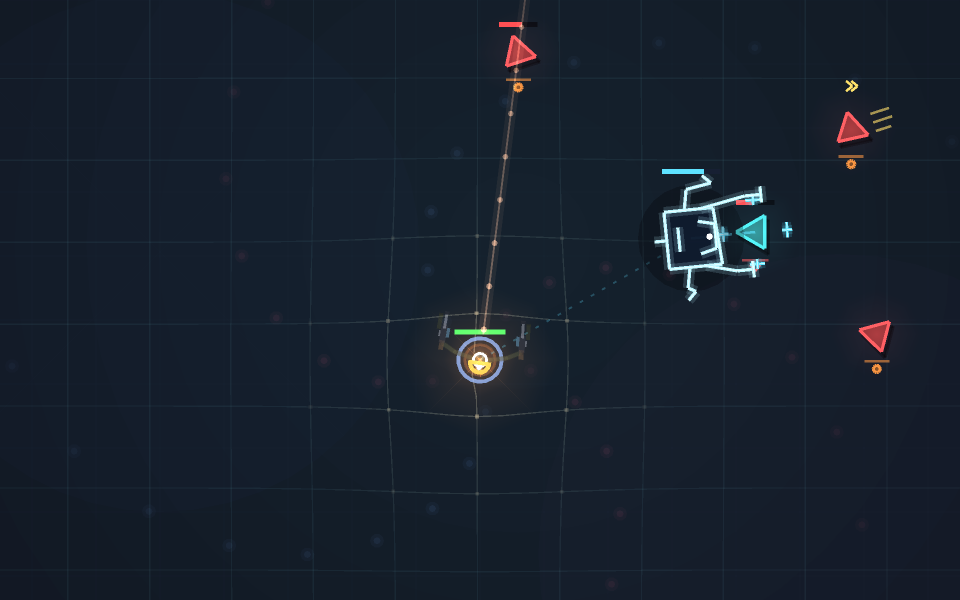
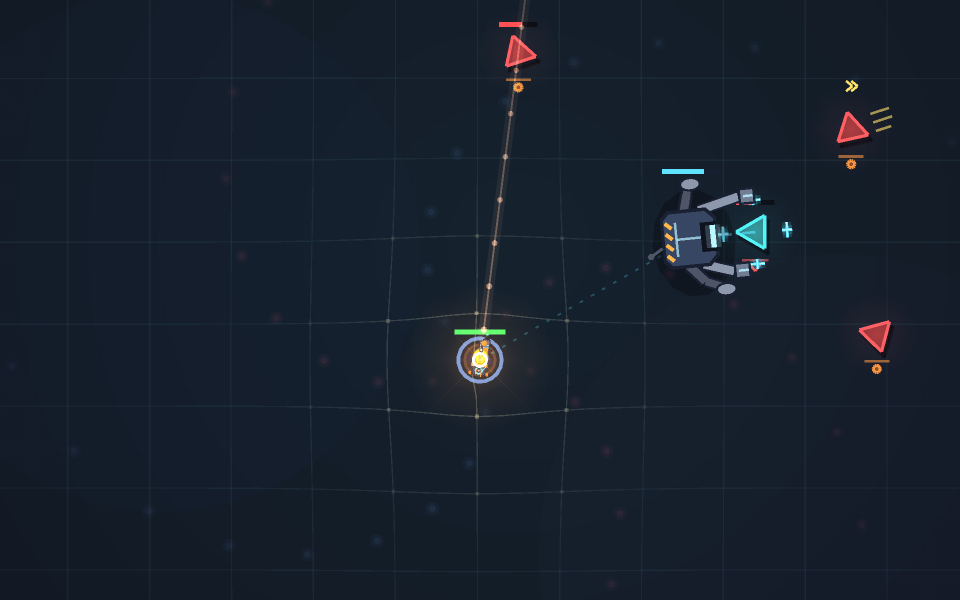
Engineer: record picked looks (Hi-vis, plated walker), re-render page shots
Claude-Session: https://claude.ai/code/session_01AdQ687aHD3zvkpC3ZfAgbi

Changed region(s): [[0.6562, 0.27, 0.8125, 0.51], [0.4688, 0.54, 0.5625, 0.63], [0.4375, 0.54, 0.4688, 0.57]]

diff --git a/Docs/Mockups/engineer-class.html b/Docs/Mockups/engineer-class.html
@@ -99,7 +99,7 @@ tr:last-child td{border-bottom:0}
   </div>
 
   <section class="sec" aria-labelledby="h-looks">
-    <h2 id="h-looks">Look options <small>the game's model code · pick one of each</small></h2>
+    <h2 id="h-looks">Look options <small>picked: A Hi-vis · B Plated walker</small></h2>
     <p>Built like every other class's model (back piece, shoulders, the DPS trim, arms, the held weapon, head). Big here so the detail reads; the row under it is the same pairs at real arena scale.</p>
     <figure><div class="shot"><img src="engineer/look-bodies.png" alt="Engineer looks: Hi-vis, Drafter, Welder"><span class="tag">The Engineer</span></div><figcaption>A Hi-vis: navy coveralls, safety vest, yellow hard hat with headlamp, cable-spool pack · B Drafter: glowing cyan seams, white hard hat with visor band, drafting tube · C Welder: leather, welding mask, twin gas tanks</figcaption></figure>
     <figure><div class="shot"><img src="engineer/look-followers.png" alt="Strider looks: wireframe, plated, spider"><span class="tag">The follower</span></div><figcaption>A Wireframe walker: pure vector ink · B Plated walker: steel hull, hazard stripes, cyan visor and seams · C Spider rig: four legs, a claw arm, a spinning cyan core</figcaption></figure>
@@ -197,5 +197,5 @@ tr:last-child td{border-bottom:0}
     </div>
   </section>
 
-  <p class="foot">Every picture is the game's renderer: <code>Game/EngineerLook.cs</code> via <code>ENGINEER=strider|pylon|breach Tools/Preview/shot.sh</code>. The Engineer and follower looks are <code>Game/EngineerModel.cs</code> (sheets: <code>ENGSHEET=0|1|2 shot.sh x englook</code>); older shots above still show the stand-in Soldier body. The HUD around the arena shots is cropped off.</p>
+  <p class="foot">Every picture is the game's renderer: <code>Game/EngineerLook.cs</code> via <code>ENGINEER=strider|pylon|breach Tools/Preview/shot.sh</code>. The Engineer and follower looks are <code>Game/EngineerModel.cs</code> (sheets: <code>ENGSHEET=0|1|2 shot.sh x englook</code>); the kit and Breach shots use the picked Hi-vis Engineer and plated walker. The HUD around the arena shots is cropped off.</p>
 </main>

diff --git a/Tools/Preview/ShotEngineer.cs b/Tools/Preview/ShotEngineer.cs
@@ -66,7 +66,7 @@ static partial class Shot {
       foreach (var e in gm.Enemies.Values) if (et >= 0.75f) { V2 d = (e.Pos - wall); e.Pos = e.Disp = e.Pos + d.Normalized() * 70f; }
     }
     m.Model = int.Parse(Environment.GetEnvironmentVariable("ENGMODEL") ?? "0");  // ENGMODEL=0-2 the Engineer look, -1 the stand-in Soldier
-    m.FollowLook = int.Parse(Environment.GetEnvironmentVariable("ENGFOLLOW") ?? "0");  // ENGFOLLOW=0-2 the Strider look
+    m.FollowLook = int.Parse(Environment.GetEnvironmentVariable("ENGFOLLOW") ?? "1");  // ENGFOLLOW=0-2 the Strider look (default 1, the picked plated walker)
     ArenaApp.engineerMock = m;
     Console.Error.WriteLine("engineer: " + mode + " t=" + et + " enemies=" + gm.Enemies.Count);
   }

diff --git a/Docs/Engineer.md b/Docs/Engineer.md
@@ -21,7 +21,7 @@ speed x0.95. Passive **Draftsman**: +25% vectors (Expanding arena). DPS first; T
 Breach reuses the breach-room work ([`BreachRooms.md`](BreachRooms.md), `SurpriseOptions`, `PinBreaches`): the room is
 placed so its floor covers the hole, shifting sideways around neighbours; no legal spot = blast only.
 
-## Looks (to pick)
+## Looks (picked Nov 17: Engineer A Hi-vis, Strider B plated walker)
 
 `Game/EngineerModel.cs`, sheets in `Mockups/engineer/look-*.png`: Engineer A Hi-vis / B Drafter / C Welder; Strider A wireframe /
 B plated / C spider rig; the Vector Forge is a rivet gun with a cyan emitter.
